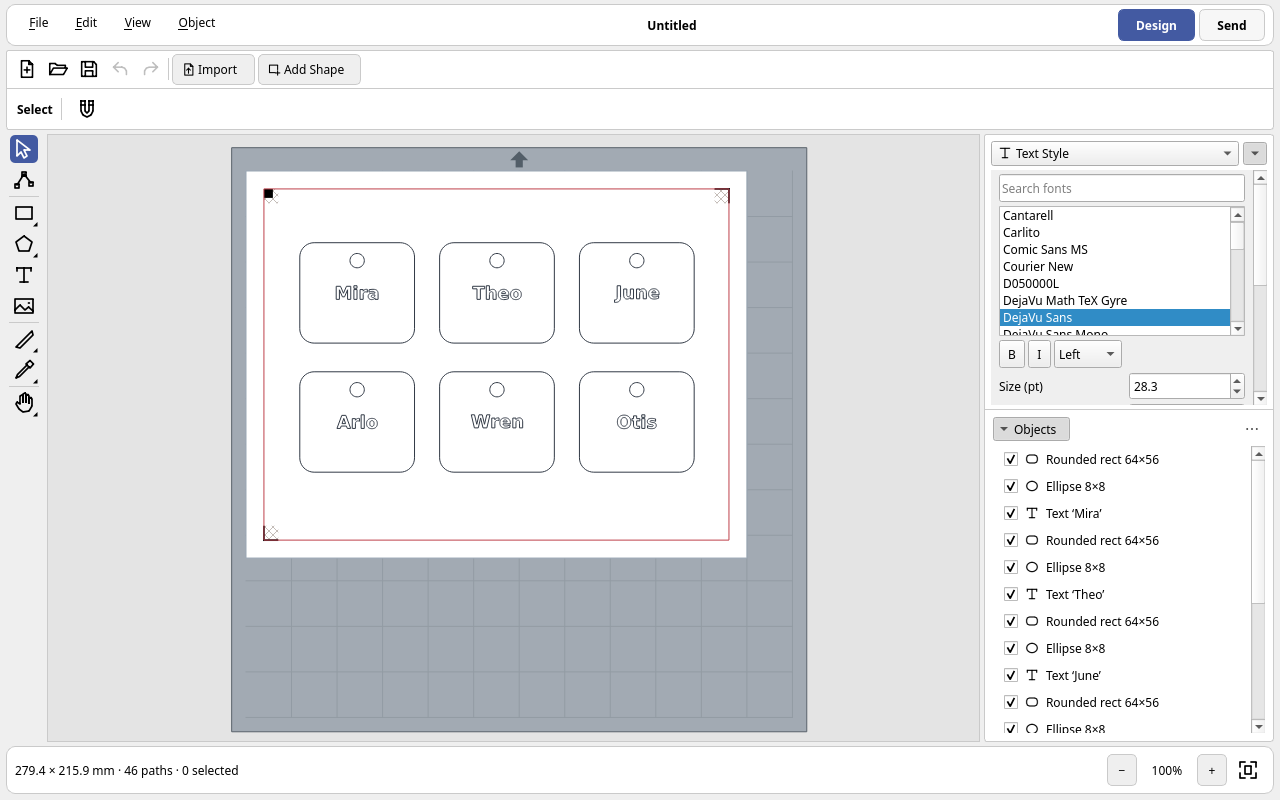
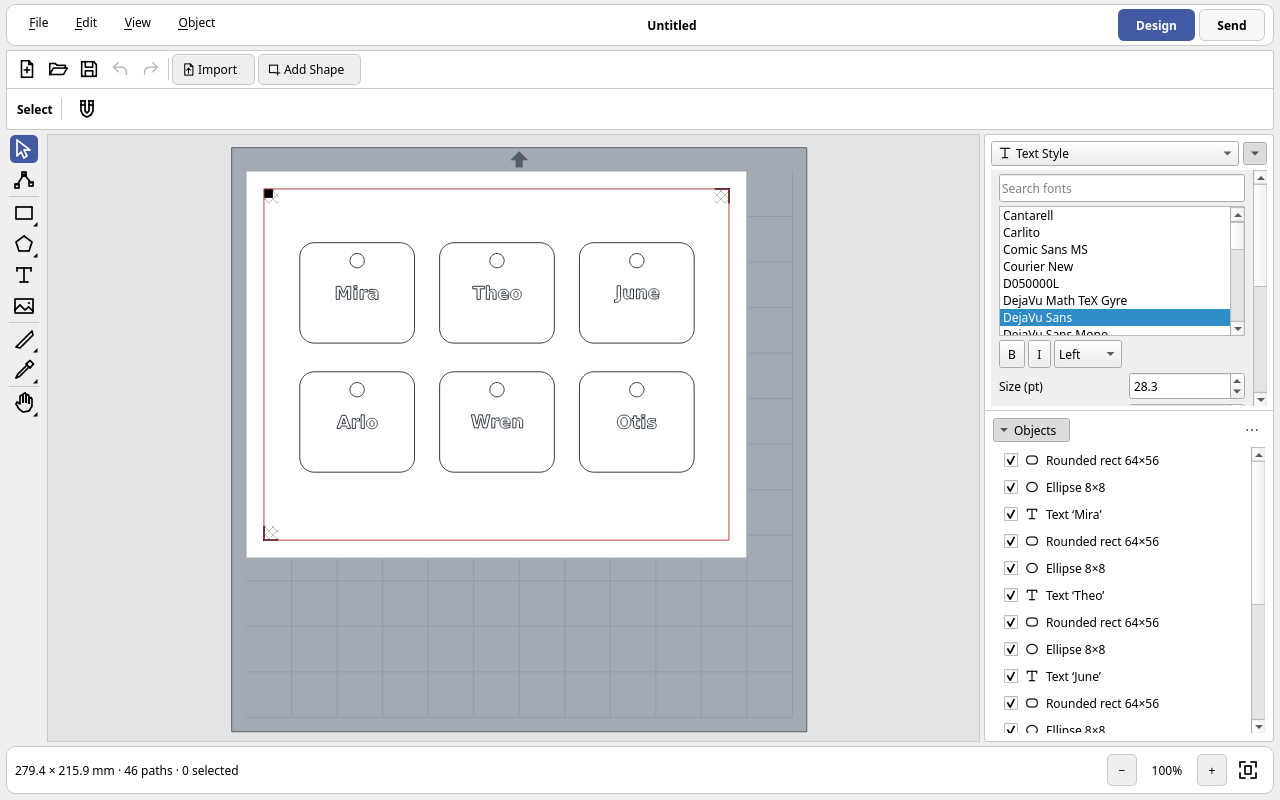
Share sidebar height between properties and objects on resize

Changed region(s): [[0.7812, 0.5, 0.9062, 0.9375]]

diff --git a/cutline/editor.py b/cutline/editor.py
@@ -351,7 +351,7 @@ class DesignWorkspace:
         self.property_position = self.object_position = 270
         self.dock = dock = Gtk.Paned(orientation=Gtk.Orientation.VERTICAL, position=270, width_request=252,
                          css_classes=['scc-design-sidebar'],
-                         resize_start_child=False, resize_end_child=True,
+                         resize_start_child=True, resize_end_child=True,
                          shrink_start_child=False, shrink_end_child=False)
         dock.set_start_child(properties)
         dock.set_end_child(self.objects_panel())

diff --git a/cutline/qt_design.py b/cutline/qt_design.py
@@ -1243,7 +1243,7 @@ class Design(QWidget):
         self.sidebar.addWidget(self.build_dock())
         self.align_properties.setMenu(self.align_button.menu())
         self.sidebar.addWidget(self.objects_pane())
-        self.sidebar.setStretchFactor(0, 0)
+        self.sidebar.setStretchFactor(0, 1)
         self.sidebar.setStretchFactor(1, 1)
         self.sidebar.setSizes([270, 330])
         panes.addWidget(self.sidebar)
